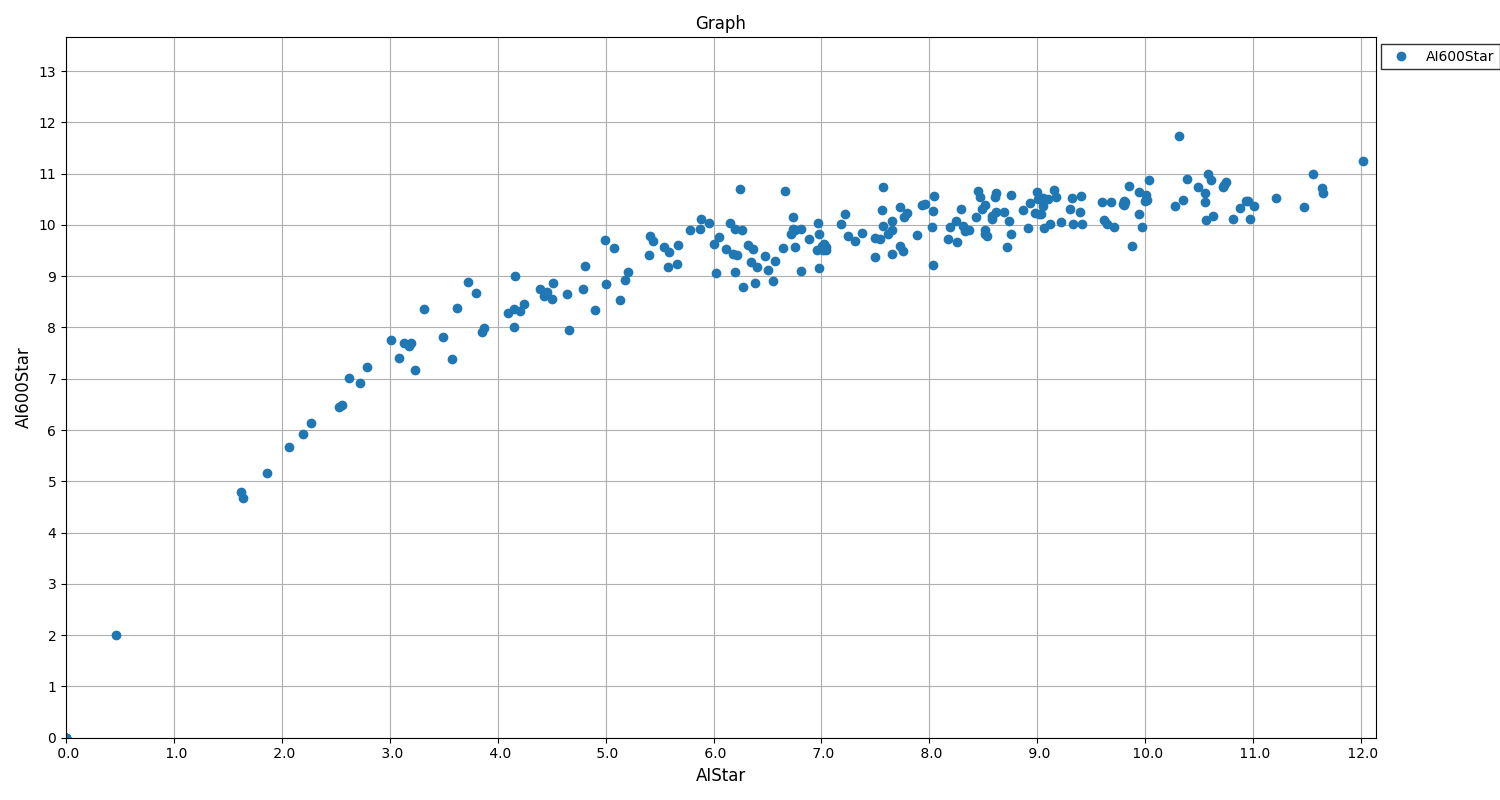
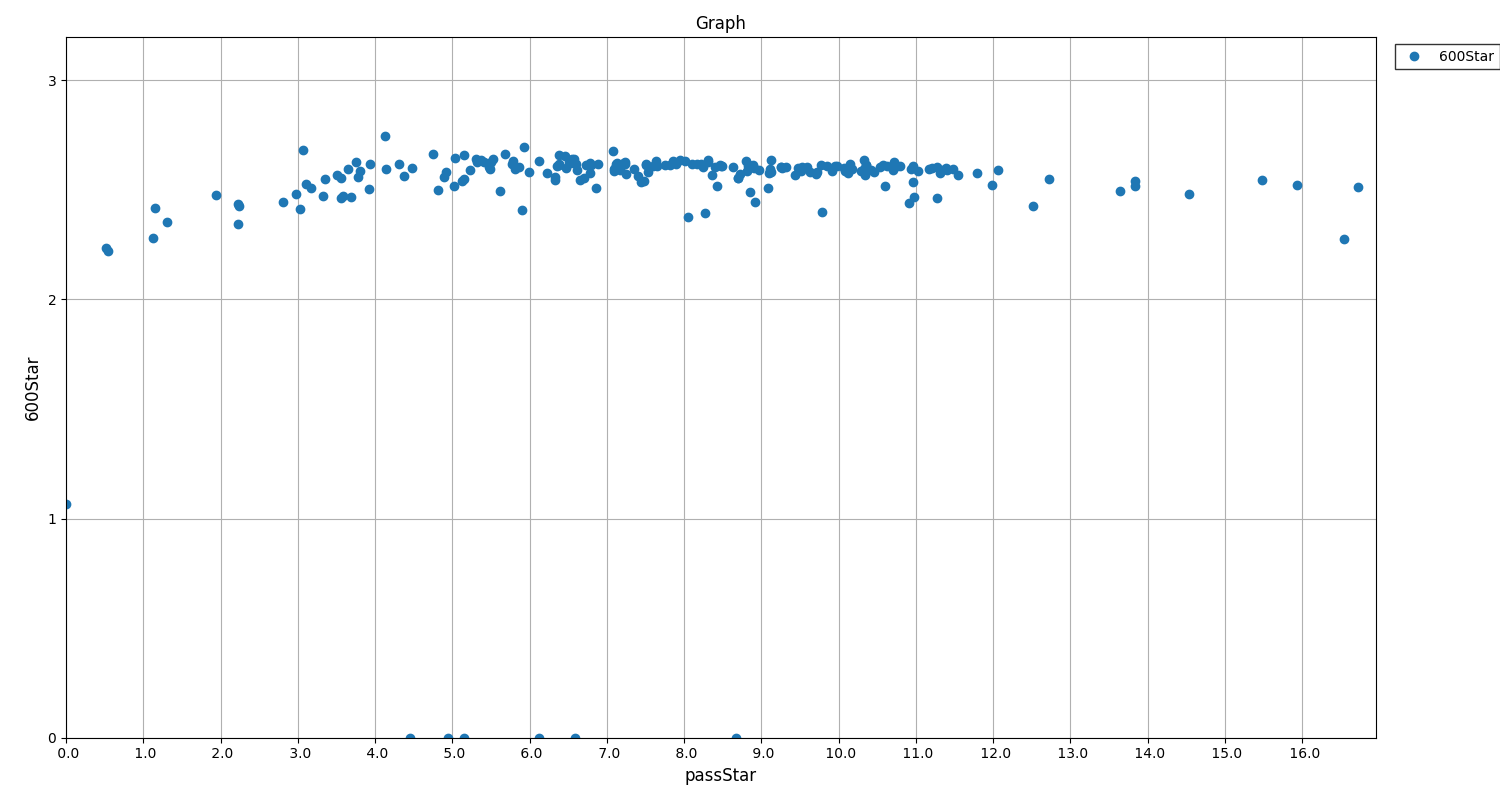
minor change

diff --git a/CurveTest.py b/CurveTest.py
@@ -154,52 +154,55 @@ def newPlayerStats(userID, scoreCount, retest=False, versionNum=-1):
                 speed = convertSpeed(playerJSON['data'][i]['modifiers'].split(','))
                 songStats = load_Song_Stats(playerJSON['data'][i], speed, key, retest, versionNum)
 
-                AIStar = songStats['AIstats']['balanced']
-                AIPassStar = songStats['AIstats']['passing_difficulty']
                 AIacc = songStats['AIstats']['expected_acc']
                 playerACC = playerJSON['data'][i]['accuracy']
                 # tech = max(min(-30 * (AiJSON['expected_acc'] - 1.00333), 2.5), 1)
-                tech = songStats['lackStats']['tech']
+                passRating = songStats['lackStats']['passing_difficulty']
+                tech = songStats['lackStats']['balanced_tech']
 
-                AIaccPP = curveAccMulti(AIacc) * AIStar * 30
-                AIpassPP = AIPassStar * 20
-                AIpp = (AIpassPP + AIaccPP)
-                if AIStar == 0:
-                    AI600Star = 0
+                AIaccPP = curveAccMulti(AIacc + (1 - AIacc) * tech / 4) * passRating * 30
+                passPP = passRating * 20
+                simulatedPP = passPP + AIaccPP
+
+                balancedAcc = playerACC + (1 - playerACC) * tech / 4
+                playerAccPP = curveAccMulti(balancedAcc) * passRating * 30
+                playerPP = passPP + playerAccPP
+
+                if simulatedPP > 0:
+                    Star600PP = passRating * 600 / simulatedPP * ((-(math.e**(-passRating))) + 1)
                 else:
-                    AI600AccStar = AIStar * 600 / AIpp * ((-(math.e**(-AIStar))) + 1)
-                    AI600PassStar = AIPassStar * 600 / AIpp * ((-(math.e**(-AIStar))) + 1)
-
+                    Star600PP = 0
 
 
                 
                 newStats[i]['name'] = playerJSON['data'][i]['leaderboard']['song']['name']
                 newStats[i]['diff'] = playerJSON['data'][i]['leaderboard']['song']['difficulties'][diffIndex]['difficultyName']
-                newStats[i]['AIStar'] = AIStar
+                newStats[i]['passRating'] = passRating
                 newStats[i]['oldStar'] = playerJSON['data'][i]['leaderboard']['song']['difficulties'][diffIndex]['stars']
                 newStats[i]['Modifiers'] = playerJSON['data'][i]['modifiers']
-                newStats[i]['oldPP'] = playerJSON['data'][i]['pp']
                 newStats[i]['acc'] = playerACC
+                newStats[i]['balanced_acc'] = balancedAcc
                 newStats[i]['tech'] = tech
-                newStats[i]['AIpp'] = AIpp
-                newStats[i]['AI600AccStar'] = AI600AccStar
-                newStats[i]['AI600PassStar'] = AI600PassStar
+                newStats[i]['oldPP'] = playerJSON['data'][i]['pp']
+                newStats[i]['playerPP'] = playerPP
+                newStats[i]['AIpp'] = simulatedPP
+                newStats[i]['600PassStar'] = Star600PP
 
 
-    newStats = sorted(newStats, key=lambda x: x.get('newPP', 0), reverse=True)
+    newStats = sorted(newStats, key=lambda x: x.get('playerPP', 0), reverse=True)
     playerName = playerName.replace("|", "")
 
     filePath = f'_playerStats/{playerName}'
 
     try:
-        with open(f'{filePath}/dataNewPP.json', 'w') as data_json:
+        with open(f'{filePath}/dataNewPlayerPP.json', 'w') as data_json:
             json.dump(newStats, data_json, indent=4)
     except FileNotFoundError:
         os.mkdir(str(f'{filePath}'))
-        with open(f'{filePath}/dataNewPP.json', 'w') as data_json:
+        with open(f'{filePath}/dataNewPlayerPP.json', 'w') as data_json:
             json.dump(newStats, data_json, indent=4)
     
-    newStats = sorted(newStats, key=lambda x: x.get('newStar', 0), reverse=True)
+    newStats = sorted(newStats, key=lambda x: x.get('passRating', 0), reverse=True)
     with open(f'{filePath}/dataStar.json', 'w') as data_json:
         json.dump(newStats, data_json, indent=4)
 

diff --git a/Tech_Calculator/tech_calc.py b/Tech_Calculator/tech_calc.py
@@ -430,13 +430,16 @@ def techOperations(mapData, bpm, isuser=True, verbose=True):
     tech = average(StrainList[int(len(StrainList) * 0.25):])
     passNum = max(diffToPass(LeftSwingData, bpm, 'left', isuser), diffToPass(RightSwingData, bpm, 'right', isuser))
 
+    balanced_tech = tech * (-1.4**(-passNum) + 1)
+
     if verbose:
-        returnDict = {'left': leftVerbose, 'right': rightVerbose, 'tech': tech, 'passing_difficulty': passNum}
+        returnDict = {'left': leftVerbose, 'right': rightVerbose, 'tech': tech, 'passing_difficulty': passNum, 'balanced_tech': balanced_tech}
     else:
-        returnDict = {'tech': tech, 'passing_difficulty': passNum}
+        returnDict = {'balanced_tech': balanced_tech, 'passing_difficulty': passNum}
     if isuser:
         print(f"Calculacted Tech = {tech}")        # Put Breakpoint here if you want to see
         print(f"Calculated pass diff = {passNum}")
+        print(f"Calculated balanced tech = {balanced_tech}")
     return returnDict
 
 def mapCalculation(mapData, bpm, isuser=True, verbose=True):

diff --git a/grapher.py b/grapher.py
@@ -28,7 +28,10 @@ for i, score in enumerate(PPJSON):
         if y2Key.lower() != 'null':
             y2Pair.append(PPJSON[i][f'{y2Key}'])
     except:
-        print("done")
+        pass
+    finally:
+        print(i)
+        
 
 fig, ax = plt.subplots(figsize = (15, 8))
 
@@ -39,8 +42,8 @@ ax.set_xlabel(xKey, fontsize=12)
 ax.set_ylabel(y1Key, fontsize=12)
 
 ax.set_xticks(np.linspace(0,20,21))
-ax.set_yticks(np.linspace(0,20,21))
-#ax.set_yticks(np.linspace(0,1000,21))
+#ax.set_yticks(np.linspace(0,20,21))
+ax.set_yticks(np.linspace(0,1000,21))
 
 ax.plot(xPair, y1Pair, 'o', label = y1Key)
 if y2Key.lower() != 'null':
